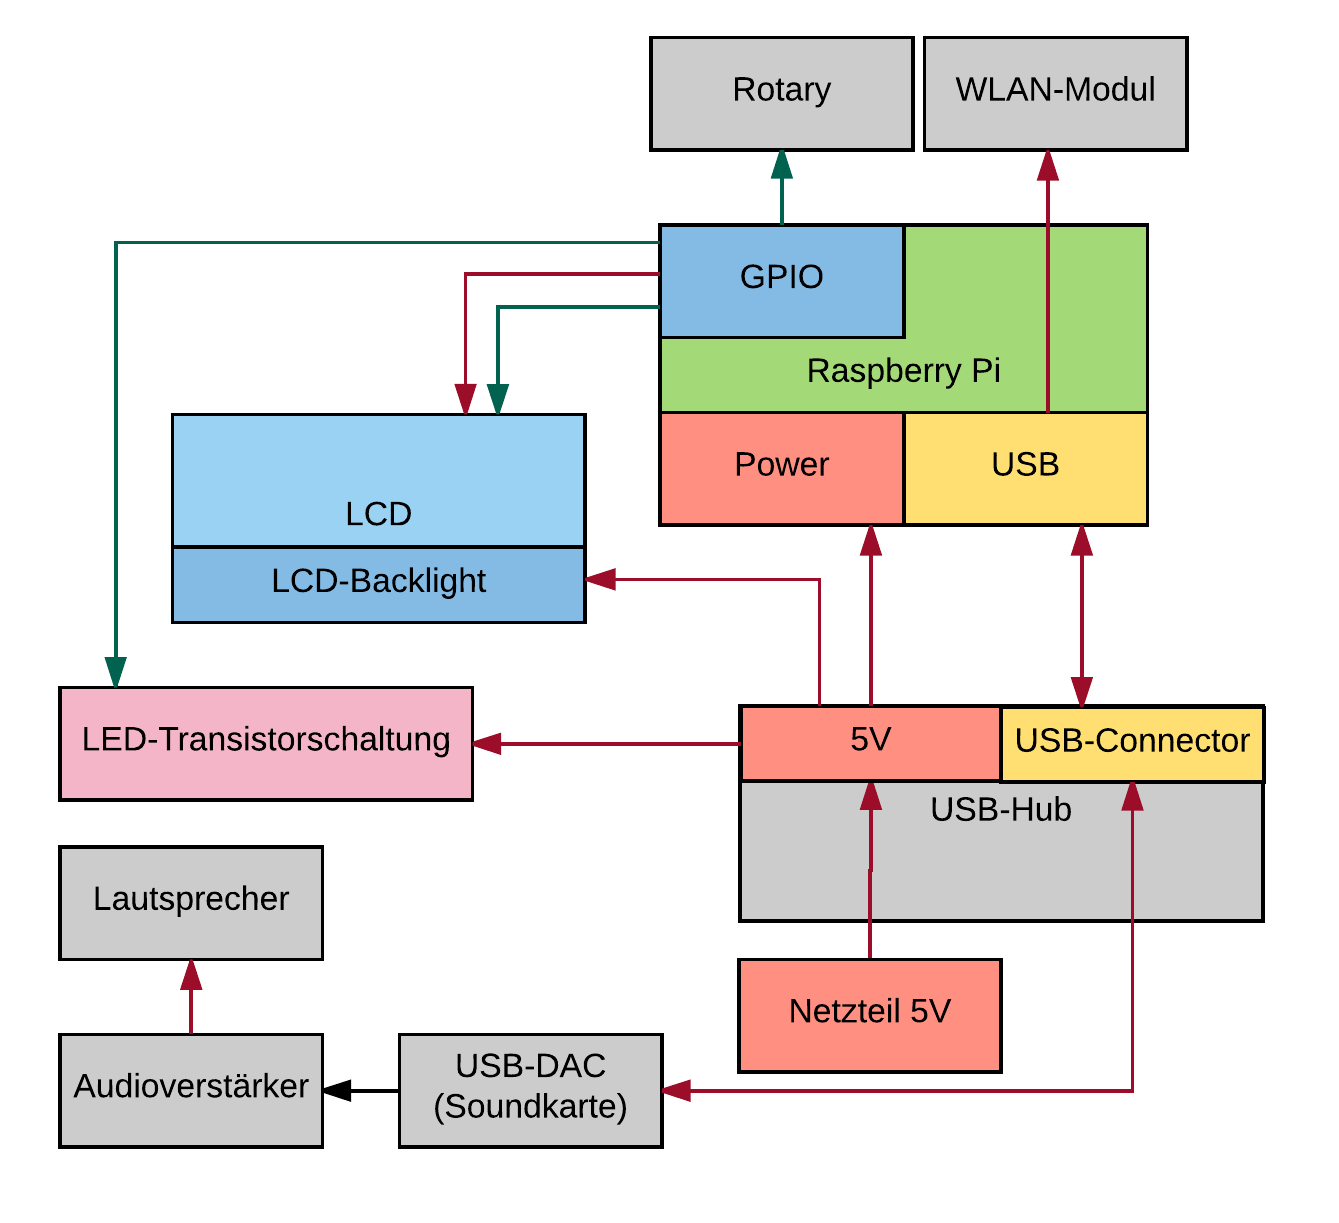
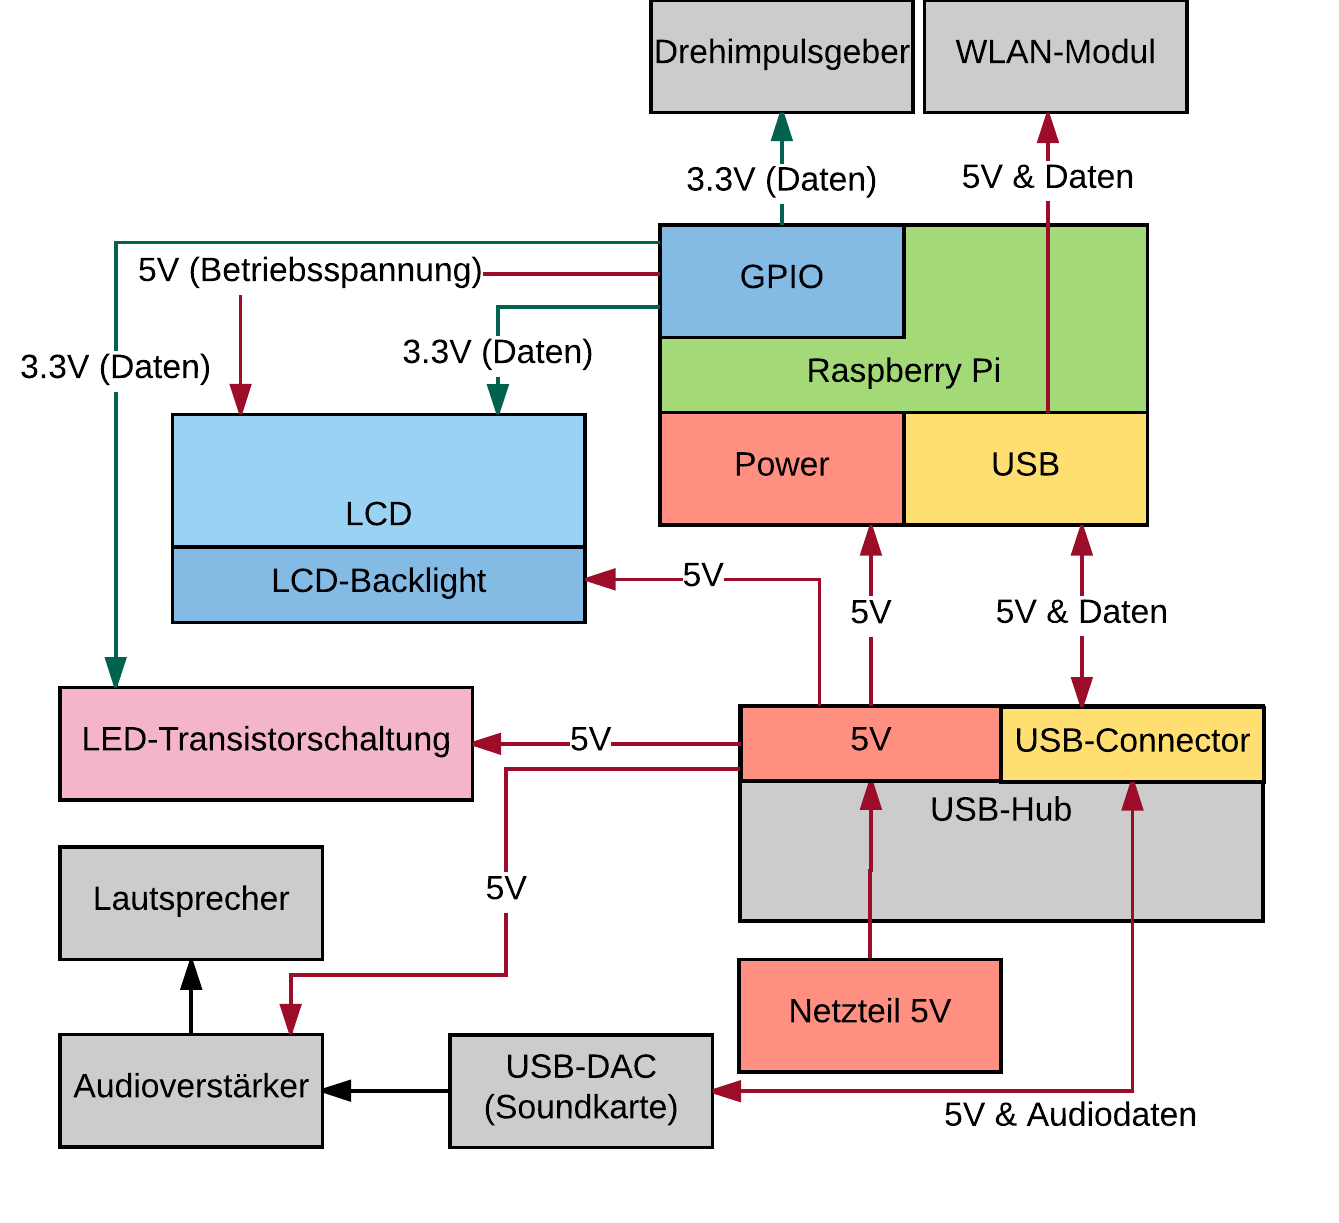
Übersicht updated & some reformating.

diff --git a/docs/documentation/eulenfunk-doc.md b/docs/documentation/eulenfunk-doc.md
@@ -174,6 +174,16 @@ angebracht werden.
 
 ## Komponenten und Bauteile
 
+Abbildung \ref{uebersicht} zeigt eine konzeptuelle Übersichts des Zusammenspiels
+der einzelnen Komponenten.
+
+\begin{figure}[h!]
+  \centering
+  \includegraphics[width=0.7\textwidth]{images/uebersicht.png}
+  \caption{Grobe Übersicht der verwendeten Komponenten im Zusammenspiel}
+  \label{uebersicht}
+\end{figure}
+
 Folgende Hardwarekomponenten oder Bauteile sind bereits vorhanden oder müssen
 noch erworben werden:
 
@@ -188,6 +198,8 @@ noch erworben werden:
 * Wi--Fi--Adapter
 * Netzteil (diverse 5V, 2mA)
 
+\newpage 
+
 **Muss noch erworben werden:**
 
 * Audioverstärker 
@@ -196,22 +208,7 @@ noch erworben werden:
 * Farbe (Lack)
 * Drehknöpfe für das Gehäuse 
 
-TODO Katze: Beschreibung an Diagrammpfeile
-
-\begin{figure}[h!]
-  \centering
-  \includegraphics[width=0.7\textwidth]{images/uebersicht.png}
-  \caption{Grobe Übersicht der verwendeten Komponenten im Zusammenspiel}
-  \label{uebersicht}
-\end{figure}
-
-Abbildung \ref{uebersicht} zeigt eine konzeptuelle Übersichts des Zusammenspiels
-der einzelnen Komponenten.
-
 [^AEG]: AEG Küchenradio 4104: \url{https://www.amazon.de/AEG-MR-4104-Desgin-Uhrenradio-buche/dp/B000HD19W8}
-
-
-
 
 ## Raspberry Pi
 
@@ -282,8 +279,7 @@ wird...(Ref auf Software TODO: ELCH?) Unter [@richardson2014make], Seite 121 ff.
 [@gay2014mastering], Seite 421 ff. finden sich weitere Informationen.
 
 Software PWM unter [@gay2014experimenting], Seite 183 ff. zeigt beispielsweise
-eine 6% CPU--Last pro GPIO--Pin bei einer PWM--Softwareimplementierung. TODO:
-ELCH?
+eine 6% CPU--Last pro GPIO--Pin bei einer PWM--Softwareimplementierung. TODO: ELCH?
 
 ## LCD--Anzeige
 
@@ -377,6 +373,8 @@ Abbildung \ref{alps} zeigt den Anschluss des Drehimpulsgebers am *Raspberry Pi*.
   Kombination aus Potentiometer und Schalter.}
   \label{alps}
 \end{figure}
+
+\newpage
 
 ## Soundkarte
 
@@ -564,6 +562,8 @@ war lediglich ein einziges als »akzeptabel« einzustufen. Die restlichen zwei
 führen bei Lastspitzen zu Problemen (Abstürze, fehlerhaftes Rendering auf
 Display, GPIO--Flips, et cetera). Das *backfeed* des USB--Hubs scheint die
 genannten Probleme teilweise zu verstärken (vgl . [@suehle2014hacks], Seite 27).
+
+\newpage
 
 ## Gehäuse
 
